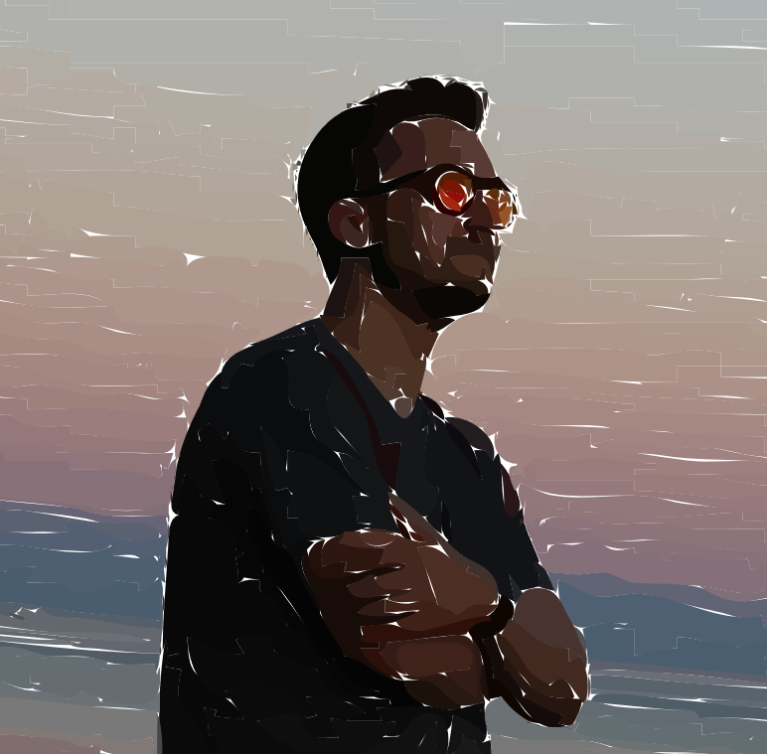
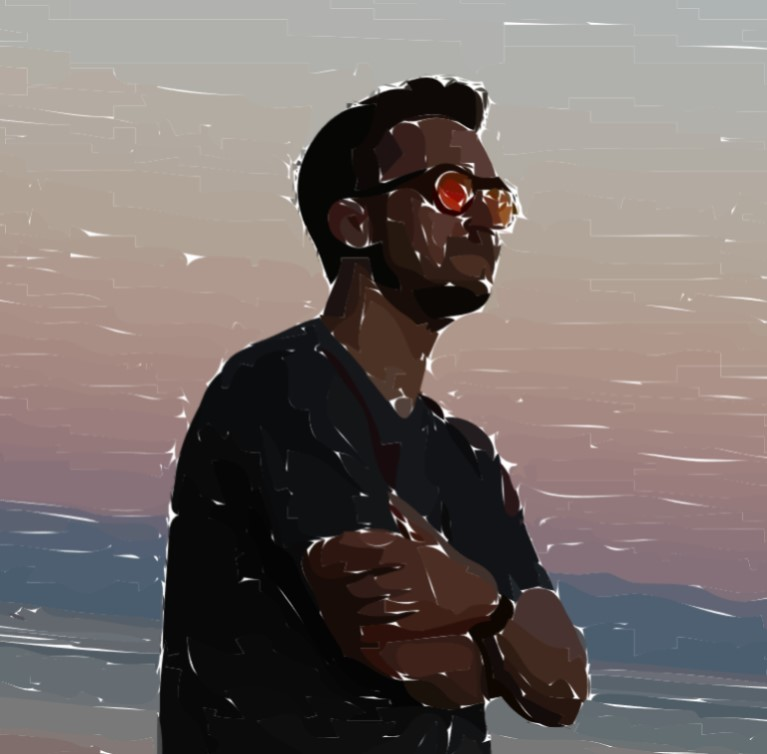
Decrease mobile jpg size & improve responsive imaging

diff --git a/src/app/app.component.html b/src/app/app.component.html
@@ -10,14 +10,19 @@
 
     <!-- Welcome / Landing Page -->
     <div class="landing-page">
-        <img class="img-responsive" alt="milton at lake baikal in siberia"
-             srcset="assets/images/baikal_artsy_767px.jpg 767w,
-                     assets/images/baikal_moon_1000px.jpg 1000w,
-                     assets/images/baikal_moon_2000px.jpg 2000w"
-             sizes="(max-width: 800px) 767px,
-                    (max-width: 1500px) 1000px,
-                    2000px"
-             src="assets/images/baikal_moon_1000px.jpg">
+        <!-- Responsive Image: Better browser assistance instead with just the <img> tag -->
+        <picture>
+            <source media="(max-width: 800px)"
+                    srcset="assets/images/baikal_artsy_767px.jpg 767w"/>
+            <source media="(max-width: 1500px)"
+                    srcset="assets/images/baikal_moon_1000px.jpg 1000w"/>
+            <source media="(min-width: 1501px)"
+                    srcset="assets/images/baikal_moon_2000px.jpg 2000w"/>
+            <img class="img-responsive" alt="milton at lake baikal in siberia"
+                 src="assets/images/baikal_moon_1000px.jpg">
+        </picture>
+
+
         <div class="landing-page__greeting">
             <h1>Milton Roth</h1>
             <br/>
@@ -70,19 +75,19 @@
         <div class="container">
             <!-- GitHub -->
             <a id="github" class="circle-link" title="GitHub" href="https://github.com/Miles07"
-               target="_blank" rel="noopener">
+               target="_blank" rel="noopener noreferrer">
                 <fa-icon [icon]="faGithubIcon"></fa-icon>
             </a>
 
             <!-- LinkedIn -->
             <a id="linkedin" class="circle-link" title="LinkedIn" href="https://www.linkedin.com/in/miltonroth/"
-               target="_blank" rel="noopener">
+               target="_blank" rel="noopener noreferrer">
                 <fa-icon [icon]="faLinkedInIcon"></fa-icon>
             </a>
 
             <!-- Twitter -->
             <a id="twitter" class="circle-link" title="Twitter" href="https://twitter.com/ml_roth_"
-               target="_blank" rel="noopener">
+               target="_blank" rel="noopener noreferrer">
                 <fa-icon [icon]="faTwitterIcon"></fa-icon>
             </a>
 
